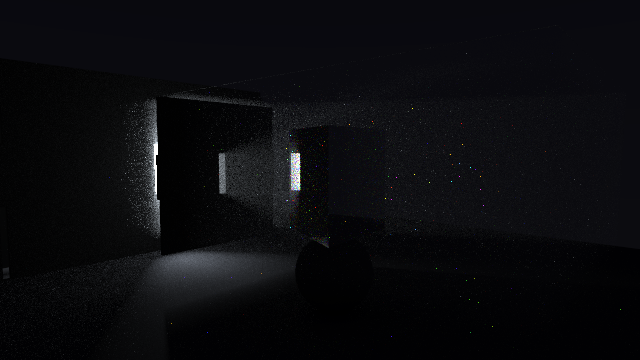
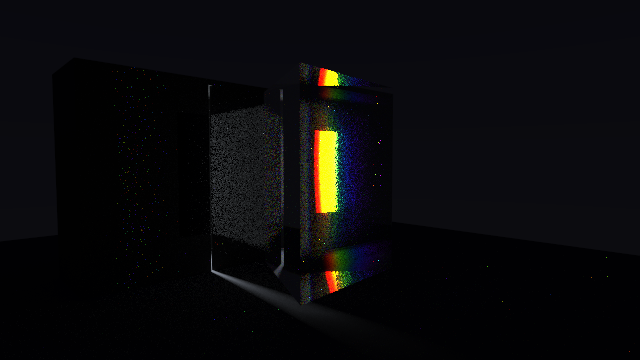
fix: Prism's glass faces outwards, and the rainbow is seen from inside the fan
The prism's faces were wound inwards, so a ray meeting the glass took
itself to be leaving it: the beam bounced inside instead of fanning out,
and no rainbow formed. Faces now look out of the glass. The camera stands
in the fanned beam and sees the slit through the prism as a rainbow, light
straight from the lamp rather than a caustic, so the frame settles fast; a
tall narrow slit and haze only on the way in. Median GPU step at 1024²:
83 ms before, 32 ms now.

diff --git a/src/test/kotlin/krt/scenes/ShowcaseScenes.kt b/src/test/kotlin/krt/scenes/ShowcaseScenes.kt
@@ -106,57 +106,52 @@ object ShowcaseScenes {
      */
     fun prism(): BuiltScene {
         val black = Lambert(c(0.02, 0.02, 0.02))
-        val wall = Lambert(c(0.75, 0.75, 0.73))
         val floor = Lambert(c(0.06, 0.06, 0.065))
         val glass = Dielectric(1.62, dispersion = 0.045)
-        val haze = Medium.grey(0.2, c(0.95, 0.95, 0.95))
-        val r = 0.45
+        val haze = Medium.grey(0.07, c(0.95, 0.95, 0.95))
+        val r = 0.6
         // Turned 35° from the beam, near the least deviation: the beam leaves at about 50°, violet to red over 17°.
         val turn = -35 * PI / 180
         val corners = listOf(PI / 2, 7 * PI / 6, 11 * PI / 6).map { p(r * cos(it + turn), 0.0, r * sin(it + turn)) }
         fun prismAt(y: Double) = corners.map { it + p(0.0, y, 0.0) }
-        val (low, high) = prismAt(0.6) to prismAt(1.4)
+        val (low, high) = prismAt(0.3) to prismAt(1.7)
+        // Wound so each face looks out of the glass: the side a ray meets it from says whether it enters or leaves.
         val prismSides = (0..2).flatMap { i ->
             val j = (i + 1) % 3
             listOf(
-                Triangle(low[i], low[j], high[j], glass),
-                Triangle(low[i], high[j], high[i], glass),
+                Triangle(low[i], high[j], low[j], glass),
+                Triangle(low[i], high[i], high[j], glass),
             )
-        } + listOf(Triangle(low[0], low[2], low[1], glass), Triangle(high[0], high[1], high[2], glass))
-        val slitX = -2.8
-        val shutter = listOf(
-            Meshes.box(Pose(p(slitX, 0.35, 0.0)), p(0.04, 0.35, 1.5), black),
-            Meshes.box(Pose(p(slitX, 1.65, 0.0)), p(0.04, 0.35, 1.5), black),
-            Meshes.box(Pose(p(slitX, 1.0, -0.8)), p(0.04, 0.3, 0.75), black),
-            Meshes.box(Pose(p(slitX, 1.0, 0.8)), p(0.04, 0.3, 0.75), black),
-            // A second slit further on keeps the beam narrow: a slit only wide enough lets light through both.
-            Meshes.box(Pose(p(-1.45, 0.55, 0.0)), p(0.02, 0.25, 0.65), black),
-            Meshes.box(Pose(p(-1.45, 1.45, 0.0)), p(0.02, 0.25, 0.65), black),
-            Meshes.box(Pose(p(-1.45, 1.0, -0.36)), p(0.02, 0.2, 0.31), black),
-            Meshes.box(Pose(p(-1.45, 1.0, 0.36)), p(0.02, 0.2, 0.31), black),
-            // The lamp house: back, roof and sides, so the lamp lights the room only through the slit.
-            Meshes.box(Pose(p(-3.3, 1.0, 0.0)), p(0.04, 1.0, 1.55), black),
-            Meshes.box(Pose(p(-3.05, 2.04, 0.0)), p(0.29, 0.04, 1.6), black),
-            Meshes.box(Pose(p(-3.05, 1.0, -1.6)), p(0.29, 1.0, 0.04), black),
-            Meshes.box(Pose(p(-3.05, 1.0, 1.6)), p(0.29, 1.0, 0.04), black),
+        } + listOf(Triangle(low[0], low[1], low[2], glass), Triangle(high[0], high[2], high[1], glass))
+        // A slit narrow across and tall: the narrow way keeps the rainbow sharp, the tall way lets light through
+        // over a wide angle, so paths from the screen find the lamp through the prism often and the rainbow settles.
+        val slitX = -1.6
+        val house = listOf(
+            Meshes.box(Pose(p(slitX, 0.95, -0.595)), p(0.03, 0.95, 0.575), black),
+            Meshes.box(Pose(p(slitX, 0.95, 0.595)), p(0.03, 0.95, 0.575), black),
+            Meshes.box(Pose(p(-2.4, 0.95, 0.0)), p(0.03, 0.95, 1.15), black),
+            Meshes.box(Pose(p(-2.0, 1.93, 0.0)), p(0.43, 0.03, 1.18), black),
+            Meshes.box(Pose(p(-2.0, 0.95, -1.15)), p(0.43, 0.95, 0.03), black),
+            Meshes.box(Pose(p(-2.0, 0.95, 1.15)), p(0.43, 0.95, 0.03), black),
         ).flatten()
         val lamp = Meshes.panel(
-            Pose(p(-3.0, 1.0, 0.0), x = p(0.0, 0.0, -1.0), y = p(0.0, 1.0, 0.0), z = p(1.0, 0.0, 0.0)), 0.12, 0.3,
-            Emissive.kelvin(6500.0, 600.0),
+            Pose(p(-2.3, 1.0, 0.0), x = p(0.0, 0.0, -1.0), y = p(0.0, 1.0, 0.0), z = p(1.0, 0.0, 0.0)), 0.05, 0.5,
+            Emissive.kelvin(6500.0, 400.0),
         )
         val objects = buildList {
             addAll(named("Floor", Meshes.panel(GROUND, 5.0, 4.0, floor)))
-            addAll(named("Slit", shutter))
+            addAll(named("Lamp house", house))
             addAll(named("Lamp", lamp))
             addAll(named("Prism", prismSides))
-            add(Sphere(p(0.0, 0.3, 0.0), 0.3, Lambert(c(0.05, 0.05, 0.05)), "Pedestal"))
             val hazeBox =
-                Meshes.box(Pose(p(-0.6, 1.05, -0.9)), p(2.15, 0.7, 1.35), Interface, MediumInterface(haze, null))
+                Meshes.box(Pose(p(-0.85, 1.0, 0.0)), p(0.72, 0.6, 0.35), Interface, MediumInterface(haze, null))
             addAll(named("Haze", hazeBox))
         }
         val look = SceneLook(
-            Sky(c(0.004, 0.004, 0.006), c(0.0, 0.0, 0.002)), fov = 48.0, aperture = 0.0, sampleLights = true,
-            start = StartView(p(1.95, 1.25, 2.35), p(-0.15, 1.0, 0.0)),
+            Sky(c(0.004, 0.004, 0.006), c(0.0, 0.0, 0.002)), fov = 50.0, aperture = 0.0, sampleLights = true,
+            // In the fanned beam, looking back: each colour leaves the prism towards the camera from another part
+            // of its face, so the slit shows across the prism as a rainbow, lit directly, not by a caustic.
+            start = StartView(p(2.0, 1.15, 1.95), p(0.0, 1.0, 0.0)),
         )
         return BuiltScene("prism", objects, look)
     }

diff --git a/src/main/kotlin/krt/domain/camera/model/FlightPath.kt b/src/main/kotlin/krt/domain/camera/model/FlightPath.kt
@@ -98,7 +98,7 @@ object Flights {
         Triple(-20.0, 0.7, -0.2), Triple(-40.0, 0.85, 0.1), Triple(-15.0, 1.05, 0.3),
     )
 
-    private val PRISM = swing(Point3(0.6, 1.7, 4.2), Point3(0.2, 0.9, -1.0))
+    private val PRISM = swing(Point3(2.0, 1.15, 1.95), Point3(0.0, 1.0, 0.0))
     private val BUBBLES = swing(Point3(0.6, 1.9, 5.2), Point3(0.0, 1.2, 0.0))
     private val CANDLE = swing(Point3(0.2, 1.0, 2.6), Point3(0.0, 0.5, 0.0))
     private val TEMPLE = swing(Point3(5.2, 1.4, 3.4), Point3(-0.3, 1.5, -0.2))

diff --git a/README.md b/README.md
@@ -28,7 +28,7 @@
 | Showcase | Вечерняя сцена с процедурными сетками: панели, икосферы, торы, торические узлы. |
 | Materials | Все физические материалы рядом: дисперсия, плёнки, микрограни, SSS, бархат, узоры, свечение, размытие движения. |
 | Fractals | Mandelbulb, губка Менгера, Mandelbox и кватернионная Жюлиа на шахматном полу. |
-| Prism | Тёмная комната, лампа за двумя щелями, луч в дымке и призма из флинта: щель видна сквозь призму радугой. Каустика сходится медленно, первые секунды кадр шумный. |
+| Prism | Тёмная комната, лампа в коробе с высокой узкой щелью, луч в дымке и призма из флинта у угла наименьшего отклонения; камера стоит в веере лучей, и щель видна сквозь призму радугой — светом прямо от лампы, а не каустикой, поэтому кадр сходится быстро. |
 | Bubbles | Мыльные пузыри с плёнкой от 300 до 560 нм над бархатной подушкой, один всплывает с размытием движения; окно и кольцевая лампа, отражённая в каждом пузыре. |
 | Candle & jade | Свеча из воска и фигурка из нефрита, светящиеся изнутри от пламени 1800 K с облачным узором. |
 | Fractal temple | Губка Менгера в дымке, низкое солнце 3000 K сбоку, лучи сквозь отверстия. |
